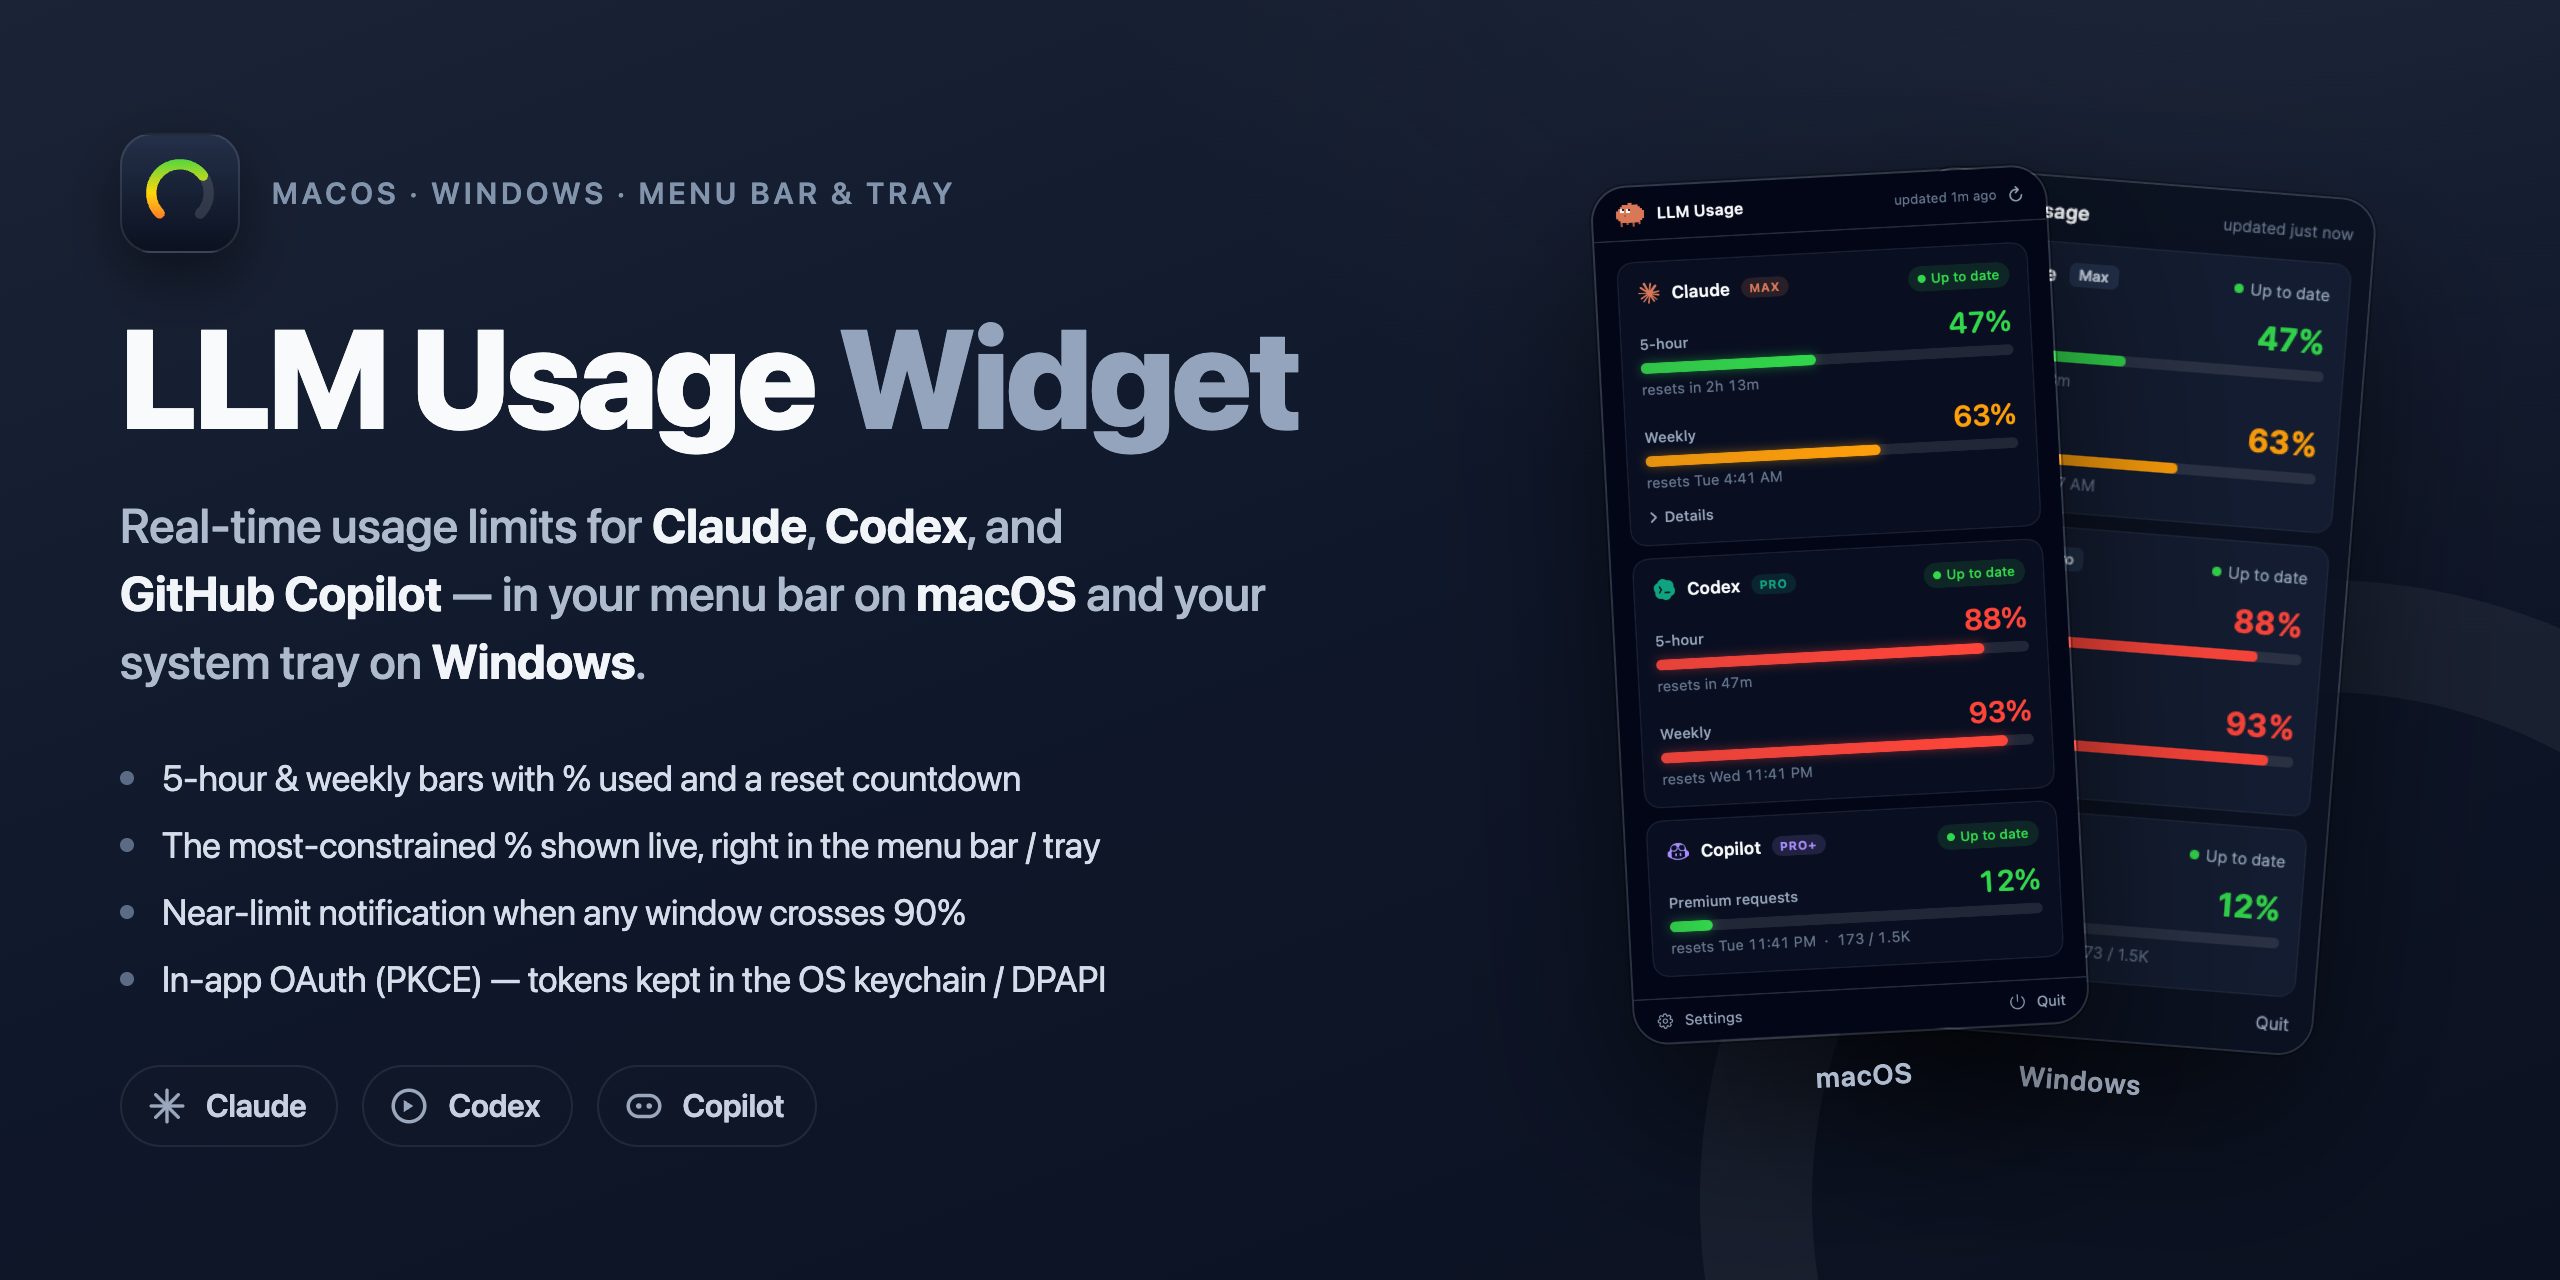
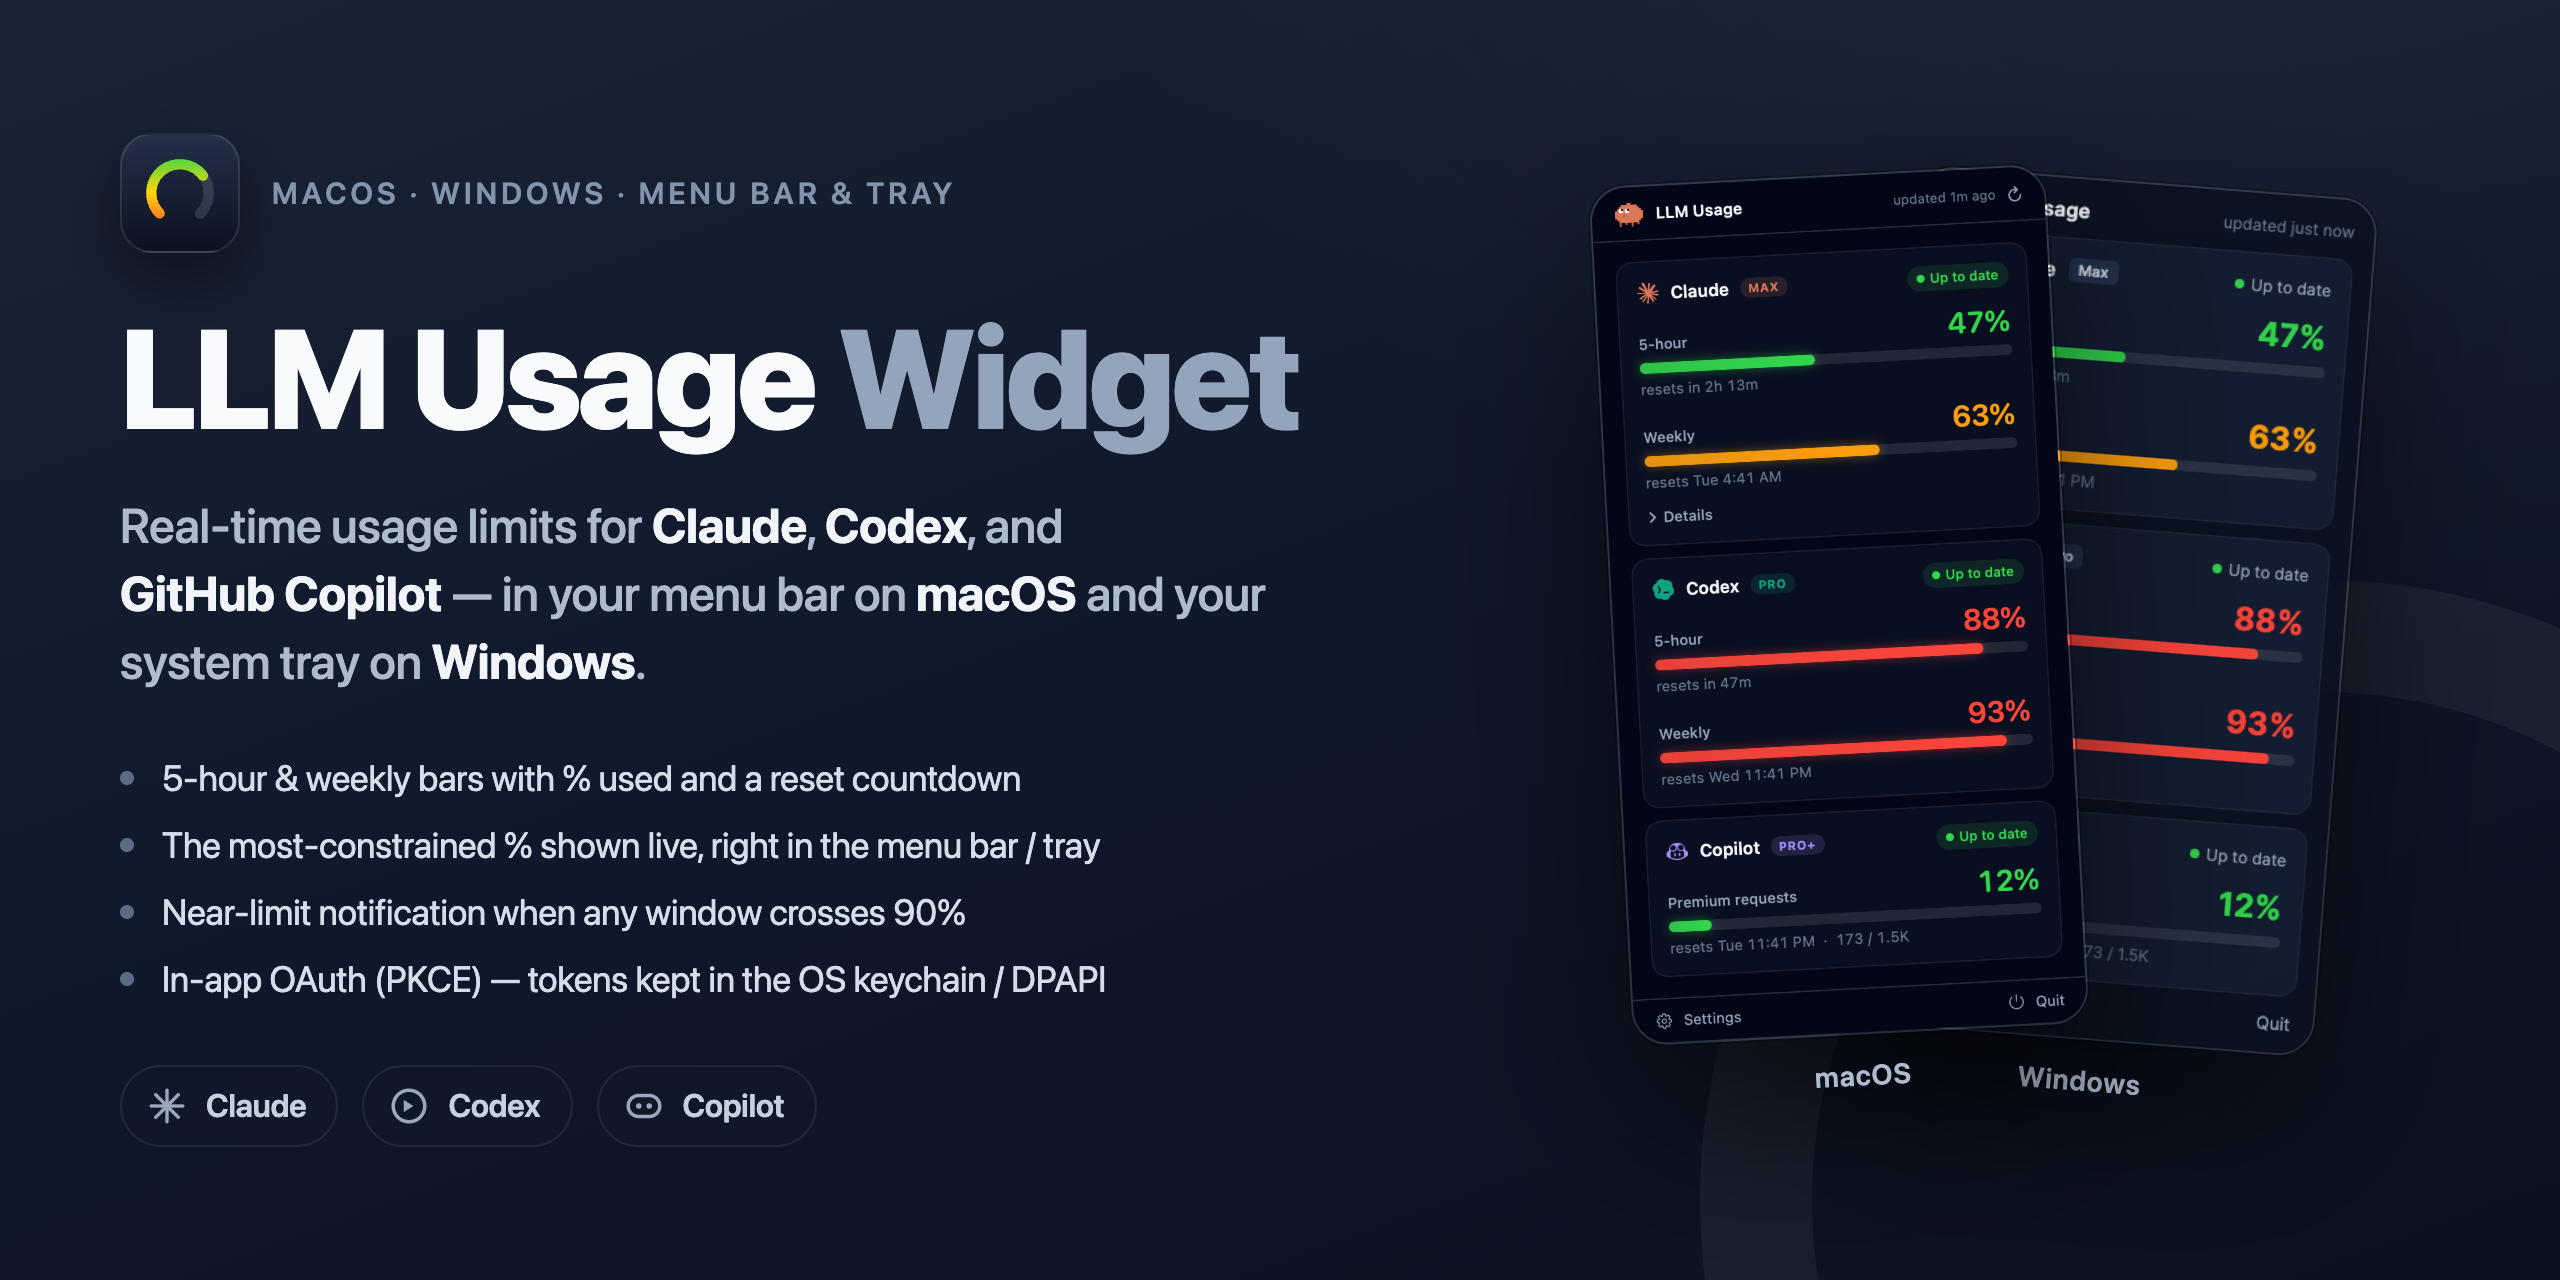
Windows: animated pixel-art Claude mascot in the popover header
Port the macOS ClaudeMascotView to an Avalonia Control — same sprite grid and
idle timings (hop, blink, gaze, foot-shuffle) drawn straight to the
DrawingContext, with a 30 fps timer that runs only while the popover is open.
Replaces the placeholder gauge ring. Refresh the Windows screenshot + cover.

diff --git a/windows/src/App/Views/ClaudeMascot.cs b/windows/src/App/Views/ClaudeMascot.cs
@@ -1,0 +1,106 @@
+using Avalonia;
+using Avalonia.Controls;
+using Avalonia.Media;
+using Avalonia.Threading;
+
+namespace LLMUsageWidget.App.Views;
+
+/// <summary>A tiny pixel-art Claude mascot that idles in the popover header — hopping, blinking,
+/// glancing around, and shuffling its feet. Ported from the macOS app's ClaudeMascotView (same
+/// sprite grid + timings). Drawn directly to the <see cref="DrawingContext"/>; a 30 fps timer ticks
+/// only while attached, so it costs nothing once the popover closes.</summary>
+public sealed class ClaudeMascot : Control
+{
+    private const double Pixel = 1.5;   // size of one sprite cell → 16×13 cells ≈ 24×19.5 px
+    private const int GridW = 16;
+    private const int GridH = 12;       // 10 body rows + 2 leg rows
+
+    // Sprite body: ' ' transparent, 'B' body. Legs occupy the two rows below it.
+    private static readonly string[] Body =
+    {
+        "       BB       ",
+        "    BBBBBBBB    ",
+        "   BBBBBBBBBB   ",
+        "  BBBBBBBBBBBB  ",
+        " BBBBBBBBBBBBBB ",
+        " BBBBBBBBBBBBBB ",
+        " BBBBBBBBBBBBBB ",
+        " BBBBBBBBBBBBBB ",
+        "  BBBBBBBBBBBB  ",
+        "   BBBBBBBBBB   ",
+    };
+
+    private static readonly IBrush BodyColor = new SolidColorBrush(Color.Parse("#D97757"));
+    private static readonly IBrush LegColor = new SolidColorBrush(Color.Parse("#B05A3C"));
+    private static readonly IBrush EyeWhite = new SolidColorBrush(Color.Parse("#F8FAFC"));
+    private static readonly IBrush Pupil = new SolidColorBrush(Color.Parse("#1B1B1F"));
+
+    private static readonly (int X, int Y)[] Eyes = { (3, 3), (6, 3) };
+    private static readonly int[] LegX = { 3, 6, 9, 12 };
+    private static readonly (int Dx, int Dy)[] Gaze = { (0, 1), (1, 1), (1, 0), (0, 0) };
+
+    private readonly DispatcherTimer _timer;
+    private double _t = 0.3;   // a calm opening frame (body up, eyes open) for the still snapshot
+
+    public ClaudeMascot()
+    {
+        Width = GridW * Pixel;
+        Height = (GridH + 1) * Pixel;   // +1 row of headroom for the hop
+        _timer = new DispatcherTimer { Interval = TimeSpan.FromMilliseconds(1000.0 / 30) };
+        _timer.Tick += (_, _) => { _t += 1.0 / 30; InvalidateVisual(); };
+    }
+
+    protected override void OnAttachedToVisualTree(VisualTreeAttachmentEventArgs e)
+    {
+        base.OnAttachedToVisualTree(e);
+        _timer.Start();
+    }
+
+    protected override void OnDetachedFromVisualTree(VisualTreeAttachmentEventArgs e)
+    {
+        base.OnDetachedFromVisualTree(e);
+        _timer.Stop();
+    }
+
+    private static void Px(DrawingContext ctx, int x, int y, IBrush color, double dy) =>
+        ctx.FillRectangle(color, new Rect(x * Pixel, y * Pixel + dy, Pixel, Pixel));
+
+    public override void Render(DrawingContext ctx)
+    {
+        double t = _t;
+        double bob = Math.Sin(t * 5) > 0 ? 0 : Pixel;   // idle hop: rests 1px low, rises flush
+
+        for (int row = 0; row < Body.Length; row++)
+            for (int col = 0; col < Body[row].Length; col++)
+                if (Body[row][col] == 'B')
+                    Px(ctx, col, row, BodyColor, bob);
+
+        Px(ctx, 5, 6, LegColor, bob);   // darker snout pixel below the eyes
+
+        int step = (int)(t * 2.5) % 2;
+        for (int i = 0; i < LegX.Length; i++)
+        {
+            Px(ctx, LegX[i], GridH - 2, LegColor, bob);                          // upper leg, always
+            if ((i + step) % 2 != 0) Px(ctx, LegX[i], GridH - 1, LegColor, bob); // foot when planted
+        }
+
+        bool blink = t % 3.2 < 0.14;
+        var (dx, dy) = Gaze[(int)(t / 1.6) % 4];
+        foreach (var (ex, ey) in Eyes)
+        {
+            if (blink)
+            {
+                Px(ctx, ex, ey + 1, LegColor, bob);
+                Px(ctx, ex + 1, ey + 1, LegColor, bob);
+            }
+            else
+            {
+                Px(ctx, ex, ey, EyeWhite, bob);
+                Px(ctx, ex + 1, ey, EyeWhite, bob);
+                Px(ctx, ex, ey + 1, EyeWhite, bob);
+                Px(ctx, ex + 1, ey + 1, EyeWhite, bob);
+                Px(ctx, ex + dx, ey + dy, Pupil, bob);   // darting pupil
+            }
+        }
+    }
+}